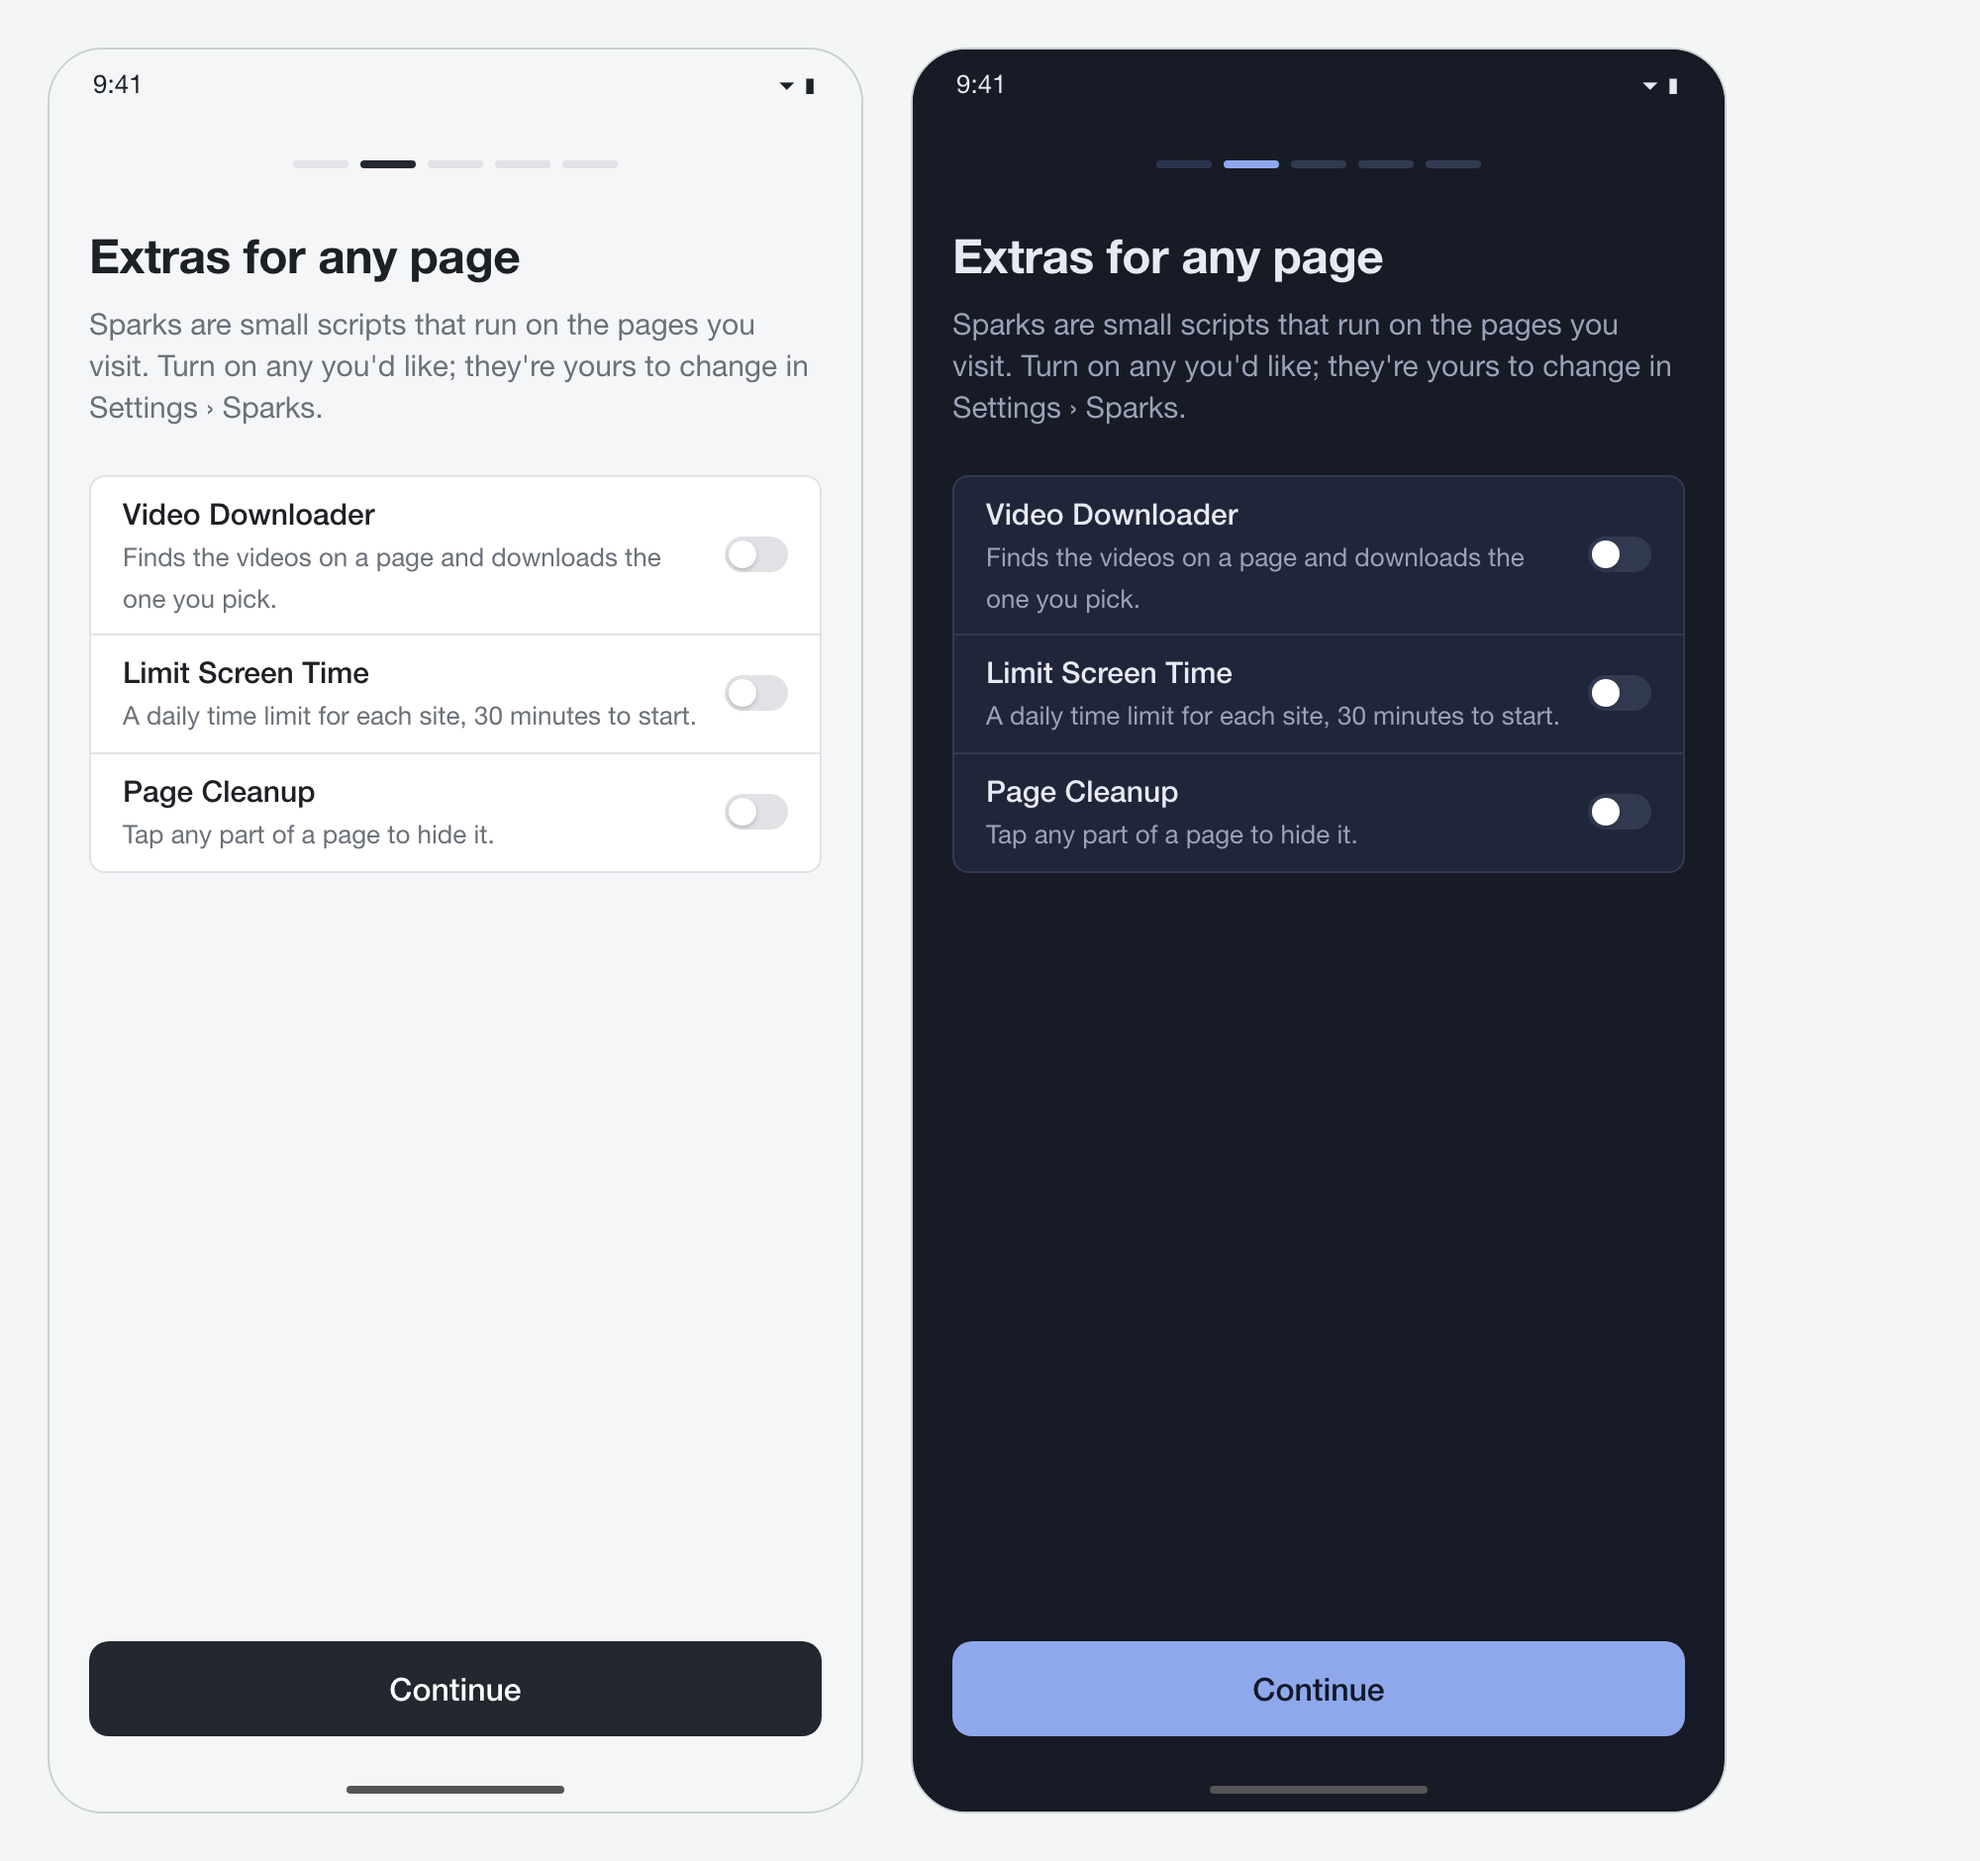
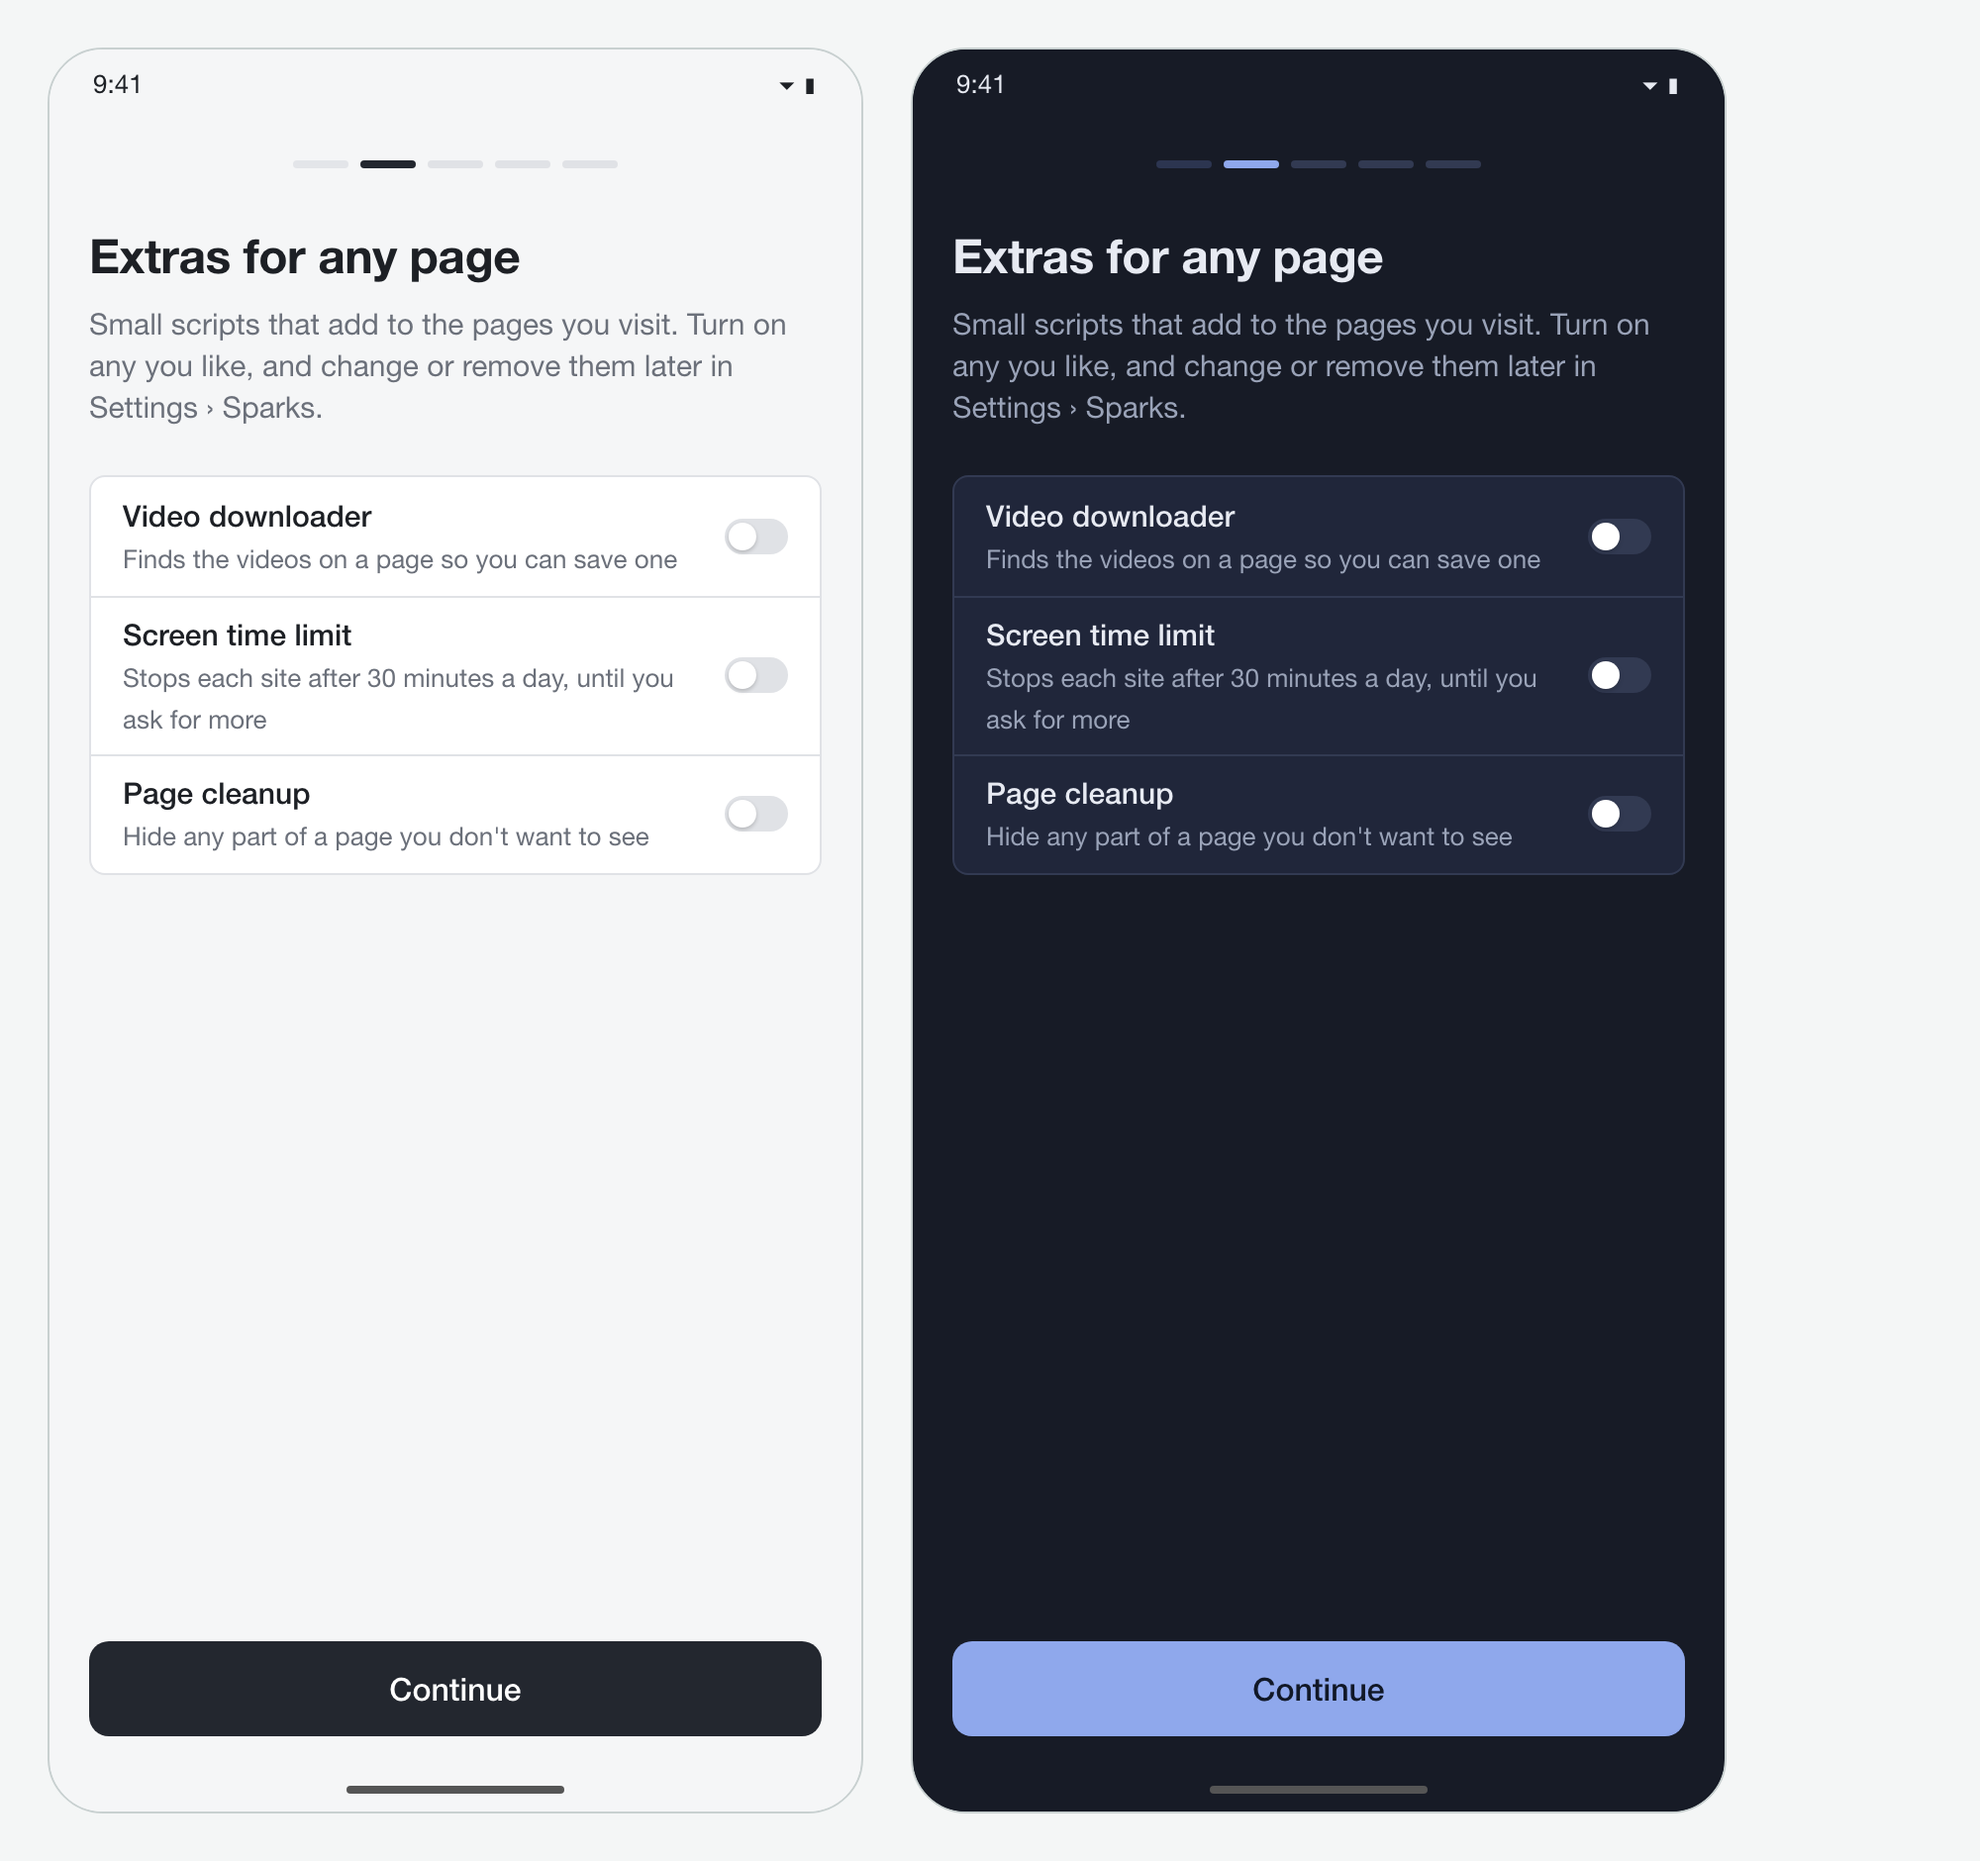
The built-in sparks and sparks kept for sync as built, in docs/site-features.md, and the welcome's mock in UX's words

diff --git a/docs/screenshots/onboarding/mocks.html b/docs/screenshots/onboarding/mocks.html
@@ -663,11 +663,11 @@ h2{font-size:13px;font-weight:500;color:var(--muted);margin:20px 0 8px}
   <div class="pob">
    <div class="steps"><i class="d"></i><i class="c"></i><i></i><i></i><i></i></div>
    <h1>Extras for any page</h1>
-   <p class="lead" style="font-size:15px">Sparks are small scripts that run on the pages you visit. Turn on any you'd like; they're yours to change in Settings › Sparks.</p>
+   <p class="lead" style="font-size:15px">Small scripts that add to the pages you visit. Turn on any you like, and change or remove them later in Settings › Sparks.</p>
    <div class="card">
-    <div class="row"><div class="lab"><b>Video Downloader</b><span class="sec">Finds the videos on a page and downloads the one you pick.</span></div><span class="sw"></span></div>
-    <div class="row"><div class="lab"><b>Limit Screen Time</b><span class="sec">A daily time limit for each site, 30 minutes to start.</span></div><span class="sw"></span></div>
-    <div class="row"><div class="lab"><b>Page Cleanup</b><span class="sec">Tap any part of a page to hide it.</span></div><span class="sw"></span></div>
+    <div class="row"><div class="lab"><b>Video downloader</b><span class="sec">Finds the videos on a page so you can save one</span></div><span class="sw"></span></div>
+    <div class="row"><div class="lab"><b>Screen time limit</b><span class="sec">Stops each site after 30 minutes a day, until you ask for more</span></div><span class="sw"></span></div>
+    <div class="row"><div class="lab"><b>Page cleanup</b><span class="sec">Hide any part of a page you don't want to see</span></div><span class="sw"></span></div>
    </div>
    <div class="grow"></div>
    <div class="fbtn">Continue</div>
@@ -676,11 +676,11 @@ h2{font-size:13px;font-weight:500;color:var(--muted);margin:20px 0 8px}
   <div class="pob">
    <div class="steps"><i class="d"></i><i class="c"></i><i></i><i></i><i></i></div>
    <h1>Extras for any page</h1>
-   <p class="lead" style="font-size:15px">Sparks are small scripts that run on the pages you visit. Turn on any you'd like; they're yours to change in Settings › Sparks.</p>
+   <p class="lead" style="font-size:15px">Small scripts that add to the pages you visit. Turn on any you like, and change or remove them later in Settings › Sparks.</p>
    <div class="card">
-    <div class="row"><div class="lab"><b>Video Downloader</b><span class="sec">Finds the videos on a page and downloads the one you pick.</span></div><span class="sw"></span></div>
-    <div class="row"><div class="lab"><b>Limit Screen Time</b><span class="sec">A daily time limit for each site, 30 minutes to start.</span></div><span class="sw"></span></div>
-    <div class="row"><div class="lab"><b>Page Cleanup</b><span class="sec">Tap any part of a page to hide it.</span></div><span class="sw"></span></div>
+    <div class="row"><div class="lab"><b>Video downloader</b><span class="sec">Finds the videos on a page so you can save one</span></div><span class="sw"></span></div>
+    <div class="row"><div class="lab"><b>Screen time limit</b><span class="sec">Stops each site after 30 minutes a day, until you ask for more</span></div><span class="sw"></span></div>
+    <div class="row"><div class="lab"><b>Page cleanup</b><span class="sec">Hide any part of a page you don't want to see</span></div><span class="sw"></span></div>
    </div>
    <div class="grow"></div>
    <div class="fbtn">Continue</div>

diff --git a/docs/site-features.md b/docs/site-features.md
@@ -107,16 +107,17 @@ the page's own world, as other userscript managers run a script that asks for no
   which Import here and other userscript managers read back. Both go through our
   downloads.
 
-### The built-in sparks (planned)
+### The built-in sparks
 
 Three of the owner's sparks come with the app, to give a feel of what sparks do: **Video
-Downloader** (his `dhd`), **Limit Screen Time** and **Page Cleanup**. They are samples, not a
+downloader** (his `dhd`), **Screen time limit** and **Page cleanup**. They are samples, not a
 feature of ours:
 
 - **Added once, off.** A profile's first start on the version that has them, a new one or
   one updated to it, adds the three to its sparks, off, after any it has, while there is room
   for 25. A profile notes that it has had them, so they never come back once deleted, and an
-  update never changes them.
+  update never changes them (`AddBuiltins`, `core/sparks/builtin.go`; `sparks.json` keeps
+  the ids they were given as).
 - **Then they are the person's.** Each is an ordinary spark: on or off, Edit…, Export,
   Delete, and its switches for each site, as any other. Nothing marks it as ours.
 - **Their sources** live in `core/sparks/builtin/` as `.user.js` files, embedded in the app,
@@ -124,15 +125,17 @@ feature of ours:
   (`core/sparks/builtin/README.md`). They are the owner's originals cleaned up after a UX
   pass. The runtime still runs his originals unchanged, as the driver's sparks part checks.
 - **Each stands alone:** a floating overlay of plain HTML, drawn in a shadow root of its own,
-  with its own styles, light and dark by `prefers-color-scheme`, in colours like ours. Nothing
+  with its own styles, light and dark by `prefers-color-scheme`, in our None frame's tones and
+  our type, the same block in all three. Nothing
   comes from the shell or the runtime. The UX pass, for all three: sentence-case names, no
   emoji (small line icons drawn inline), no pulse, bounce or shake, what is tapped low on a
   phone and small floating panels on the desktop, Escape closing the innermost.
   - **Video downloader:** nothing until a video is found; then one round button bottom
     right, which opens "Videos on this page": a row per video, its type and size or "Video
-    1", its host, and Download, a link with `download` that our Downloads takes over, with
-    its own Pause, Cancel and Retry. A stream says "Streams can't be saved as one file".
-    "Hide on this page" is in the panel's menu.
+    1", its host, and Download, a plain link with `download`: the page's own download, which
+    our Downloads takes, with its Pause, Cancel and Retry. One from another site opens in a
+    new tab, as its row says. A stream says "Streams can't be saved as one file". "Hide on
+    this page" is in the panel's menu.
   - **Screen time limit:** every site, 30 minutes a day. "Daily limit reached", "Limit
     reached again" and "It's late", one message each; "More time…" leads to the sum, then
     "How much more?". The countdown shows only in the last 5 minutes.
@@ -141,22 +144,27 @@ feature of ours:
     Done ends it. "Show hidden parts (3)" when there are some.
 - **Their storage** is the site's own `localStorage`, as in his originals, so a site can read
   or clear what they keep there.
-- **The phone's welcome** gets a step after Make it yours, "Extras for any page": a switch
-  for each of the three, with its one line, all off. A switch turns that spark on. The desktop
-  shows them in Settings › Sparks only.
+- **The phone's welcome** has a step after Make it yours, "Extras for any page": a switch
+  for each of the three the profile still has, with its name and `@description`, all off
+  ([mock](screenshots/onboarding/mock-p3.png)). The page hears them in its snapshot and as
+  `sparks`, and a switch sends `setSparkOn {id, on}`. The desktop shows them in Settings ›
+  Sparks only.
 
-### Sparks sync (planned)
+### Sparks kept for sync
 
 A spark is an item sync can carry ([synckosh](https://github.com/sudiptadeb/synckosh)'s
 SPEC): collection `sparks`, one item per spark, its guid the spark's id, its data the
-source, whether it is on, and its place in the list. So each spark gets:
+source and whether it is on. So each spark has:
 
 - **an id made once and never changed**: a UUIDv7 for a new spark; one kept since 0.2.70
   keeps its eight hex digits, which are a guid too;
-- **`modified`**, Unix milliseconds, changed by an edit, a switch or a move;
-- **`place`**, a key that sorts as text, as bookmarks have (`core/bookmarks/place.go`), so
-  moving one spark changes that spark alone. `sparks.json` without places reads in its
-  order and gets them on its next save.
+- **`added` and `modified`**, Unix milliseconds: when it was kept, and when an edit or a
+  switch last changed it. The list's order is the order they were added in; a place key
+  comes when sparks can be moved.
+
+`sparks.json` is `{version: 2, sparks: [{id, on, added, modified}], builtins: [id]}`. The
+first version, a list of `{id, on}`, reads in its order, each added a millisecond after the
+one before, and is written as version 2 at the next change.
 
 A delete leaves no tombstone yet, as with bookmarks; sync adds what it needs when it is
 built. A spark's switches for each site stay with the site's settings.

diff --git a/docs/onboarding.md b/docs/onboarding.md
@@ -125,7 +125,7 @@ No import: Android keeps each app's data from the others.
 2. Make it yours: the address bar at the foot or on top (`addressBarPosition`), and the colour,
    None first.
 3. Extras for any page: a switch for each of the three built-in sparks, all off
-   ([mock](screenshots/onboarding/mock-p3.png); planned, docs/site-features.md).
+   ([mock](screenshots/onboarding/mock-p3.png); docs/site-features.md).
 4. The search engine and the ad blocker.
 5. Default browser, through Android's own sheet (`RoleManager`, `ROLE_BROWSER`).
 6. Download notifications asked here, with a reason, instead of in the middle of the first
